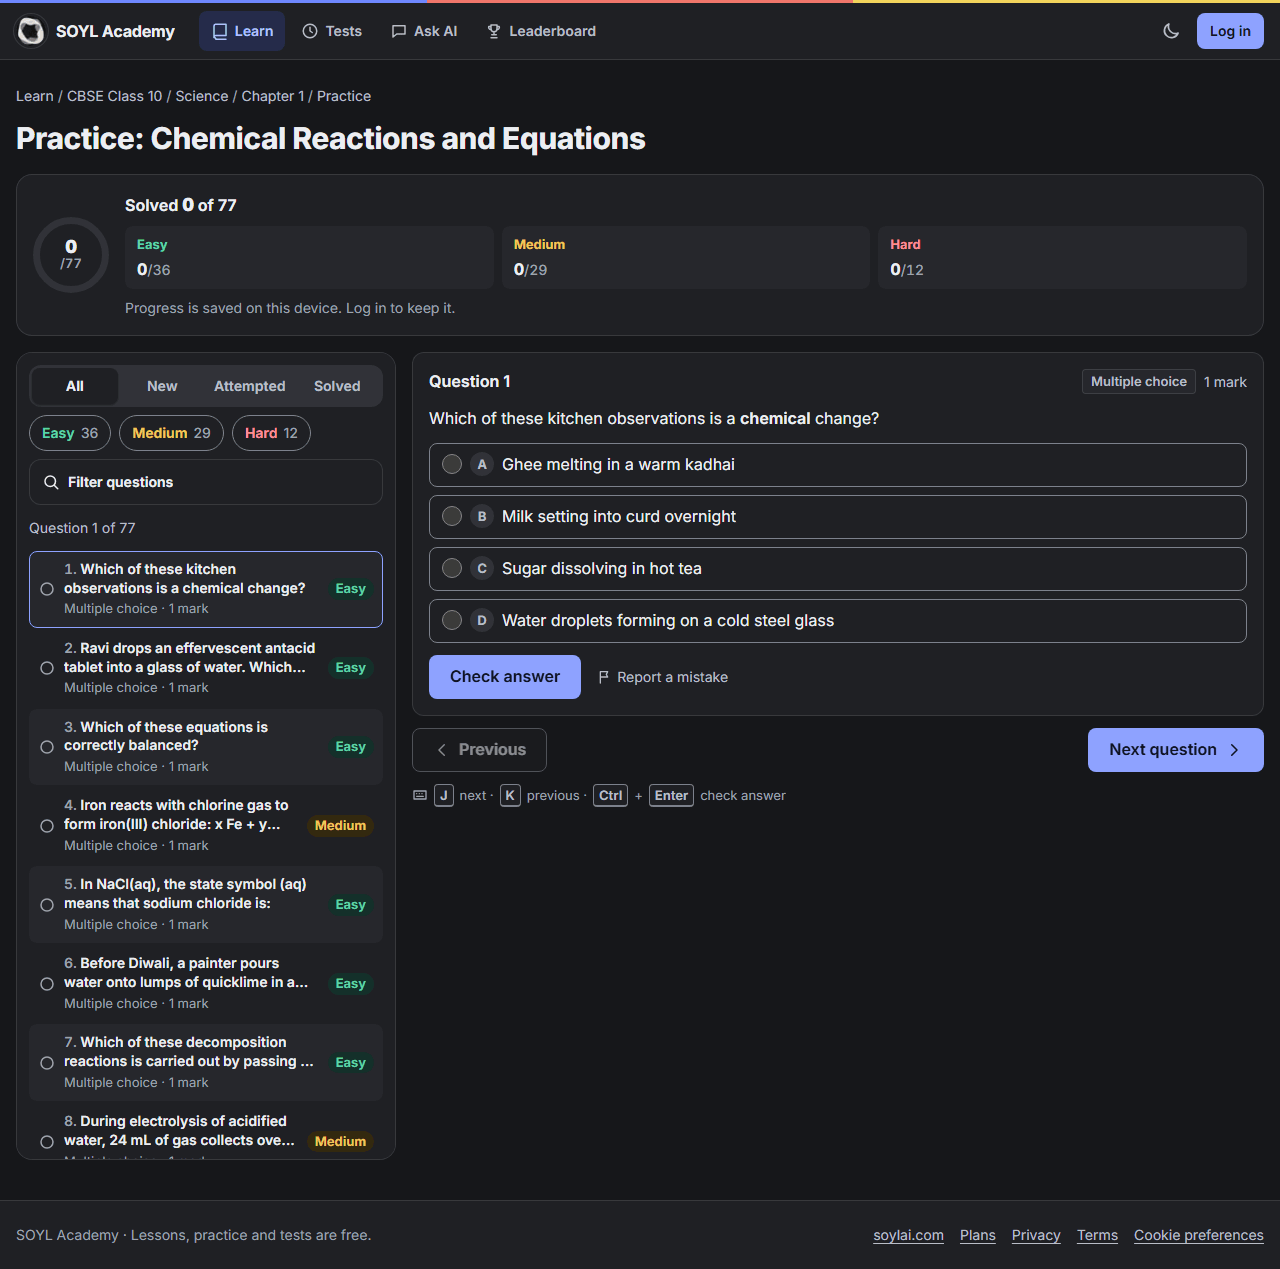
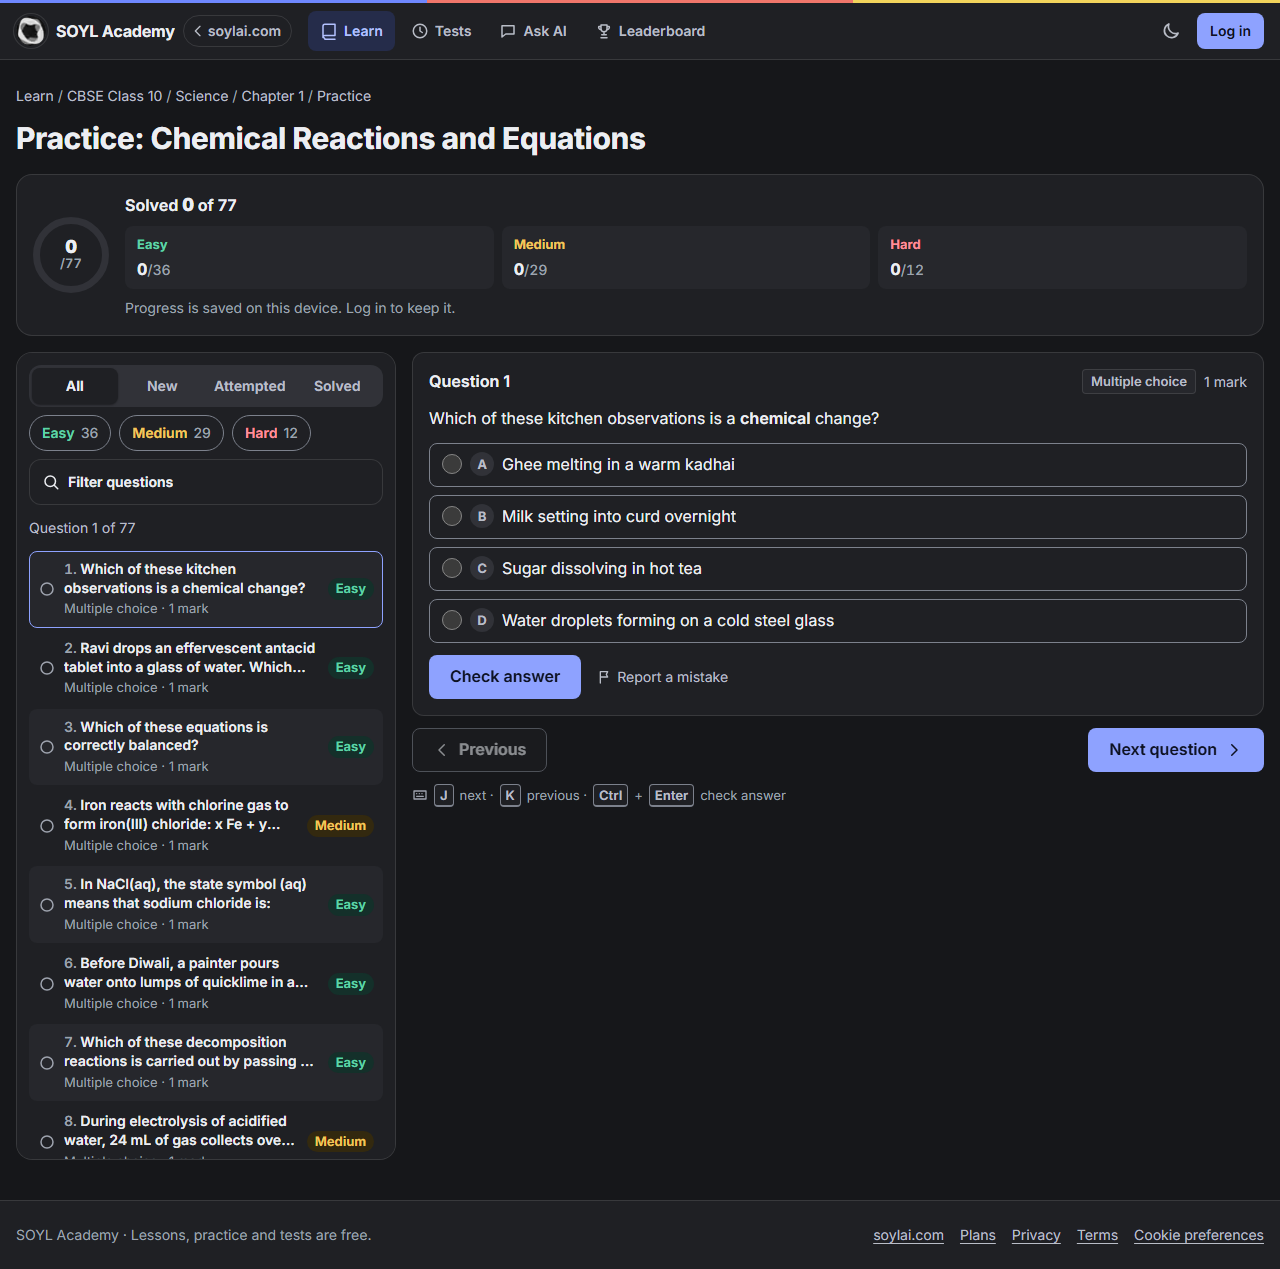
docs(platform): dashboard, back-to-site and review fixes handoff; owner screenshots

Changed region(s): [[0.1562, 0.0, 0.5625, 0.0615]]

diff --git a/docs/platform/handoffs/2026-10-28-web-platform-dashboard.md b/docs/platform/handoffs/2026-10-28-web-platform-dashboard.md
@@ -1,6 +1,6 @@
 # web-platform + design-system — student dashboard, school and weekly goal on the profile — 2026-10-28
 
-Status: GATES_PENDING
+Status: done (see "Gates")
 Branch: `platform/web-platform/dashboard` (from local `platform/main` 0ce97af: UI revamp f71fc25 + the dashboard/school backend).
 Decisions: D-043 (owner ask), D-014 (school only with consent), D-039 (data minimisation: nothing at sign-up), D-042 (what "solved" means), ADR-023 (app shell), ADR-010 (private data fetched in the browser).
 
@@ -44,4 +44,123 @@ Guests on `/me/dashboard`: "Log in to see your dashboard" (returns to the dashbo
 
 Uses of `PLATFORM_PREFIXES` checked: `ConsentedAnalytics` (no Vercel analytics on `/dashboard` ✓), `proxy.ts` (matcher literal; `/dashboard` is a body-less redirect, `/me/dashboard` already matched ✓), `chrome.ts` (shell on `/dashboard` while the flag is on ✓), marketing regression inventory (updated ✓), `robots.ts` (disallows `/api/` only; the dashboard is `noindex` like `/me` ✓), `app/sitemap.ts` (marketing pages only ✓), `/learn/sitemap.xml` (catalog only ✓).
 
-GATES_TABLE
+## Owner request: a way back to the marketing site (2026-10-28)
+
+"Once I click on learn there should be an option to go back to the marketing website."
+
+- **Where.** From 768 px: a `‹ soylai.com` pill in the top bar right after the SOYL mark. Below 768 px: a slim "‹ Back to soylai.com" row above the top bar (`MainSiteLink`, `components/platform/shell/AppShell.tsx`). The row is not sticky, so it scrolls away and does not cover content. It is hidden on immersive pages (lesson, flashcards, test player), whose own controls own the screen. The phone top bar is full for members (mark, streak, coins, credits, theme, avatar), and the tab bar already has five tabs; there is no avatar menu, and the avatar is a link to /me that several flows rely on. A row is therefore the one place that works for guests and members alike. Accessible name on both: "Back to soylai.com, the SOYL main website" (`aria-label`, which contains the visible text, WCAG 2.5.3).
+- **The SOYL mark stays → `/learn`.** It is the academy home and the first thing on every platform page, and the e2e and the owner screenshots already treat it that way. Pointing the mark at `/` and adding a separate "Academy" home would make the mark mean something different in the platform than in the marketing header. A labelled link reads more clearly than a logo whose target depends on context.
+- **Behaviour.** A normal `next/link` navigation to `/`, the same as the footer link: the marketing header and footer come back, and `ThemeProvider` removes `data-platform-theme` from `<html>` on unmount (marketing stays light). `revamp.spec.ts` checks this on a phone (the row) and on desktop (the top-bar link), starting from a dark-themed platform page.
+
+## Lead review of the live site (2026-10-28): fixes
+
+| # | Finding | Fix |
+|---|---|---|
+| 1 | `/tests` listed ~85 subjects, each with "Full series" (from `wave === 1`, a plan, not content) | `TestsHome.tsx`. Subjects with content come from the same source as the class page (`fetchContentSubjects`, the daily-challenge list), and `GET /v1/test-series?subject=` is called for each of those (a handful) to count real tests. A subject is "Ready to take" only if it has at least one test. Badges say only what is true: "Full series" only when the series has a full mock paper, otherwise "N chapter tests" or "N tests". All other subjects sit under a collapsed "More subjects: coming soon" (the class page's `details`, same styles) with no badge. If this cannot be determined (requests fail), every subject is listed without badges, as on the class page. |
+| 2 | Subject page repeated "Unit I…" / "Unit II…" at the end for the formative-only chapters 14 and 15 | `unitsOf()` (`learn/CourseSidebar.tsx`) puts chapters with `boardAssessed: false` into one final group, "School assessment only (not in board exam)". The chapters keep their "Not in board exam" tag. The sidebar uses the same function on the subject and chapter pages. A subject whose chapters are all outside the board exam keeps its units. |
+| 3 | Course sidebar stopped after "UNIT V" (it scrolls on its own; that was not visible) | The sidebar is sticky (`top: 76px`) with `max-height: 100dvh − 96px`. It now has a visible thin scrollbar (`scrollbar-color`, `scrollbar-gutter: stable`), a fade at the bottom edge (a sticky `::after`), and `overscroll-behavior: contain`. On a chapter page, `SidebarKeepCurrent` scrolls the sidebar (never the page) so the current chapter is in view. |
+| 4 | Page widths: `/ask`, `/tests` (and `/plans`, `/me`, …) in a 1120 px box starting at x≈96, while learn pages used 1280 px | One container rule: `.page` is now 1280 px with the top bar's gutter, so every page's content starts at the top bar's left edge. Reading widths stay with the content (chat 50rem, forms 640 px, and so on). An e2e test checks alignment on 9 pages at 1280 px. |
+| 5a | `/plans` Free card said "Free" twice | No price → "₹0" (`priceParts`). |
+| 5b | "₹499 one-time" rendered as "one - time" | `.price` used tabular figures for the whole line, and Inter's tabular hyphen is wide. The amount keeps `tabular-nums`; the suffix ("/month", " one-time") is a separate proportional span. |
+| 5c | Me tab lit on `/plans` | `/plans` removed from the Me tab's sections: no tab is lit there (Plans is not a tab). |
+
+**Formatting pass at 360 and 1280 px, light and dark** (shell, dashboard, /me, /learn, /tests, /plans, subject and chapter pages):
+- **Top-bar overflow.** The tab bar showed below 768 px and the top-bar nav only from 900 px, so between 768 and 899 px there was no navigation at all. Now the tab bar shows below 1024 px and the nav from 1024 px. The brand name is hidden at 1024–1279 px (the mark stays) to make room for the nav, the site link and the member chips. For members the brand name shows only from 600 px. The credit chip's "resets in…" text shows only from 1440 px; the count and the full accessible label are always there. Before this, a consented member's bar overflowed at 480 px. An e2e sweep checks the top bar at 360, 420, 480, 600, 768, 900, 1024, 1100, 1280 and 1440 px for a guest and for a consented member with every chip: no element past the edge, one row, exactly one navigation, the site link visible.
+- **Long subject names.** On `/learn` they wrapped mid-word (`overflow-wrap: anywhere`). They now break between words and are clamped to two lines; the full name stays in the DOM for screen readers. Dashboard rows break between words too.
+- **Headings.** Page `h1`s no longer split words ("Chemical Reac|tions" at 360 px) and use `text-wrap: balance`. The same applies to the dashboard and `/tests` section headings.
+- **Sticky bars covering content.** In-page anchors (`/me#school`, `#badges`, `#attempts`, `#weekly-goal`) landed under the sticky top bar; there is now `scroll-margin-top: 72px` on every `[id]` in the platform root. The phone row above the top bar is not sticky. The shell's bottom padding for the tab bar follows the new 1024 px breakpoint. Bottom-docked controls exist only on immersive pages, which have no tab bar.
+- **Score chart's hidden table.** It widened the phone layout viewport to 625 px. A `<table>` ignores `width: 1px`, so it now sits inside a visually hidden wrapper that clips it.
+- **Spacing.** The dashboard uses one rhythm (16 px between sections, 12 px between tiles); `/tests` groups use the existing stack gap. Nothing else needed changing in the screenshots.
+
+## How to verify
+
+From the repo root: `npm run lint`, then `npm run test:platform-web -- --maxWorkers=2`, then `npm run test:platform-ui -- --maxWorkers=2`, then `npm run build`.
+From `platform/`: `npm run typecheck`, then `PW_WEB_PORT=3340 PW_FLAG_OFF_PORT=3341 npm run test:platform-web -w @soyl/e2e`, then `npm run marketing:regression -w @soyl/e2e`, then `npm run marketing:diff -w @soyl/e2e -- --base origin/platform/main`. Run every heavy job through `heavy.sh`.
+
+Manual check:
+1. Run `npm run dev -w @soyl/api` and the web dev server.
+2. On `/learn`, log in. You land on `/me/dashboard`.
+3. Practise a few questions. The dashboard fills in.
+4. On `/me` → Profile, set a weekly goal. Approve extra features (18+), then add a school.
+5. Use the "‹ soylai.com" link. The marketing site comes back, light.
+
+## Gates (this worktree, 2026-10-28/29, Windows 11, 8 GB; heavy jobs through `heavy.sh`, one at a time)
+
+| Gate | Result |
+|---|---|
+| `npm run lint` (root) | exit 0 |
+| `npm run test:platform-web -- --maxWorkers=2` | 18 files, 317 tests passed |
+| `npm run test:platform-ui -- --maxWorkers=2` | 6 files, 606 tests passed |
+| `npm run build` (root) | exit 0 |
+| `npm run typecheck` (platform/) | exit 0 |
+| `PW_WEB_PORT=3340 PW_FLAG_OFF_PORT=3341 npm run test:platform-web -w @soyl/e2e` | flag ON **99 passed**, flag OFF **42 passed**, `[platform-web] PASSED`. JS budget: every page ≤ 200 KB gz. The heaviest are test result 199.1, test player 198.8, lesson 197.7, me 196.1, dashboard 191.8, learn 187.3 and tests 181.6. |
+| `npm run marketing:regression -w @soyl/e2e` | 48 passed: "no visual diffs, all routes as expected, Lighthouse within 5 points" (mobile performance 92–95, desktop 100) |
+| `npm run marketing:diff -w @soyl/e2e -- --base origin/platform/main` | 48 passed: "HEAD renders the marketing site identically to its merge-base" |
+| gitleaks on `origin/platform/main..HEAD` | GITLEAKS |
+
+Earlier runs, for the record:
+- The first full e2e run had 7 failures. Two were caused by this work: the new dashboard spec signed in twice on the default client IP and hit the 10-an-hour per-IP email OTP limit (AUTH-5) for later specs. Those sign-ins now use their own IPs. The other five were in `tests.spec`: the local API stopped answering ("could not reach the server") late in that 27-minute run on the loaded 8 GB machine. All five passed in the next two full runs.
+- The top-bar sweep found a member overflow at 480 px (now fixed). One run of the guest sweep hit its time limit while loading 10 ISR pages; the sweep now resizes one loaded page.
+
+## Tests added / changed
+
+- Unit, `components/platform/__tests__/dashboard.test.tsx` (29 tests):
+  - view-models: deltas, KPI tiles for a new and an active account, IST greeting, prompts from `missing`/`schoolStatus`, goal parsing and ring text, difficulty, scope, links, the trend and its summary, recent rows;
+  - charts: difficulty summary as label and caption, the score chart's label, hidden table, hatched self-marked bars, `<title>`s;
+  - `DashboardView`: empty account, active account, stats, the class prompt saving, weekly-goal edit and validation;
+  - `DashboardClient`: guest prompt with device progress, loading, error and retry;
+  - `WeeklyGoalEditor` on the profile;
+  - school picker: `checkNewSchool` messages, consent gate (no controls and no request), debounce and minimum length, pick by id, no results → add, browser validation, API field errors on the field, remove, a refused save explained;
+  - default landing (`defaultLoginReturnTo`);
+  - shell: Home for members, five tabs, Me not lit on the dashboard, the main-site link and row.
+- Unit, `components/platform/__tests__/review-fixes.test.ts` (5 tests): `/tests` summary, badges and split; `unitsOf` school-only group; `priceParts`.
+- Unit, `m34-components.test.tsx`: the plan price assertions read the price element (amount and suffix are now two spans). Same strings, nothing removed.
+- e2e, `dashboard.spec.ts` (6 tests):
+  - default landing from `/learn`, `/dashboard` → 307 → `/me/dashboard`, nonce CSP on the page, Home tab lit;
+  - guests: prompt with device progress, axe and 360 px in light and dark, login comes back;
+  - sign up → class prompt → practise 2 → solved, accuracy, difficulty, goal progress, active days, recent, heatmap and streak are non-zero; goal edit (5–300) persists; axe and 360 px (`innerWidth === 360`) in light and dark; `/learn` slimmed;
+  - school with consent: debounced search → no results → add (validation first) → shown on `/me` and on the dashboard → found again → removed;
+  - school without consent: locked line, no `/v1/schools` or school PATCH request, API 403;
+  - owner screenshots (with 3 solved questions, one chapter test and a school).
+- e2e, `review.spec.ts` (16 tests):
+  - top bar at 10 widths for a guest and a consented member;
+  - one container on 9 pages;
+  - `/plans`;
+  - `/tests` groups and badges;
+  - school-only group (page and sidebar);
+  - sidebar keeps the current chapter in view;
+  - spot-check of 9 pages at 360 and 1280 px in light and dark, no overflow, with screenshots.
+- e2e, `revamp.spec.ts`: two new tests, back to the main site on a phone (row) and on desktop (top bar), checking the marketing chrome is back and the platform theme is off `<html>`. The member screenshot of `/learn` is now named `learn-member`.
+- e2e, `flag-off.spec.ts`: `/me/dashboard`, `/dashboard`, `/api/platform/v1/me/dashboard` and `/api/platform/v1/schools` → 404, plus `/dashboard` and `/me/dashboard` showing the marketing 404 with marketing chrome and no platform shell.
+- e2e, `auth.spec.ts`: an email sign-up from `/learn` now lands on `/me/dashboard` (the new default landing; it was `/learn`).
+- e2e, `bundle.mjs`: `/me/dashboard` is in the JS budget.
+
+## Screenshots
+
+`docs/platform/design/ui-revamp/after/`, as `{desktop,mobile}-{light,dark}-{page}.png`. Desktop shots are full page at 1280 px; mobile shots are the first screen at 360 px.
+- New or replaced: `dashboard` (the new page: a member with 3 solved questions, one chapter test and a school; the old `*-dashboard.png` showed the `/learn` member view), `learn-member`, `me` (with the school and weekly goal), and the review pages `learn`, `class`, `subject`, `chapter`, `practice`, `tests`, `leaderboard-guest`, `ask` and `plans`.
+
+## Known gaps / follow-ups
+
+- `/dashboard` is a short link; the page is `/me/dashboard` (see "Route"). Making `/dashboard` canonical needs `proxy.ts` (shared file, ADR), `security.ts` and `security-headers.ts` changes.
+- The school's "visible to others after 2 accounts pick it" rule is tested in the API suite only; one e2e account cannot show it.
+- `/tests` makes 1 + N requests (the content list, then one `test-series` per subject with content, about 5 for CBSE 10). Fine for now; see API gaps.
+- JS budget headroom on the heaviest pages is under 1 KB (test result 199.1, test player 198.8). The shell grew by the Home item and the site link, about 0.2 KB. The next shell addition should be lazy, or the test pages need trimming.
+- An unverified school shows no "unverified" tag (only "Verified" when it is). Wording to agree with the owner if wanted.
+- The accuracy delta compares two 7-day windows only. There is no longer history in the API (see API gaps), so no multi-week accuracy chart was drawn.
+
+## API gaps (for backend-api; the web works without them)
+
+1. **Which subjects have tests:** add `testCount` (or `hasTests`) and `hasContent` to `CatalogSubject`, or a class-level `GET /v1/test-series?board&class` summary. Today `/tests` and the class page infer "has content" from the daily-challenge list.
+2. **Trends:** weekly series (solved, accuracy, active days for the last N IST weeks) would allow sparklines on the KPI tiles; today only this week vs last week and last 7 vs previous 7 days exist.
+3. **`testHistory`** does not say whether written answers still await self-marking (already listed in the backend handoff); the dashboard shows "Self-marked" / "Auto-marked" only.
+4. **Login landing:** `RETURN_TO_FALLBACK` (`/learn`, backend config) applies when no `returnTo` reaches the API at all; the web always sends one, so this is only for consistency.
+
+## Decisions made
+
+- No ADR: no shared or marketing file, global CSS, root layout or dependency changed. The changed files are `app/(platform)/**`, `components/platform/**` (including the kit icon set and platform-scoped CSS modules), `platform/shared/config/platform-routes.ts`, `platform/e2e/**` and this handoff with its screenshots. One exception, flagged here: `platform/shared/config/platform-routes.ts` is imported by the marketing Header/Footer; the added `/dashboard` prefix changes no marketing route (the regression and diff are green).
+- Route `/me/dashboard` with `/dashboard` as a short link (security headers and return-to). Mobile: Home replaces Ranks. The default landing applies only to logins opened on `/learn` without `returnTo`. `/learn` keeps "where to learn next"; the dashboard holds the metrics. The SOYL mark stays the academy home, next to a labelled "‹ soylai.com" link. The tab bar shows below 1024 px. All platform pages use one 1280 px container.
+
+## Needs from owner
+
+None blocking. Please review the screenshots, the "‹ soylai.com" placement (a top-bar pill on desktop, a slim row above the bar on phones), and the default goal of 20 questions a week (config: `DASHBOARD.weeklyGoal`).
